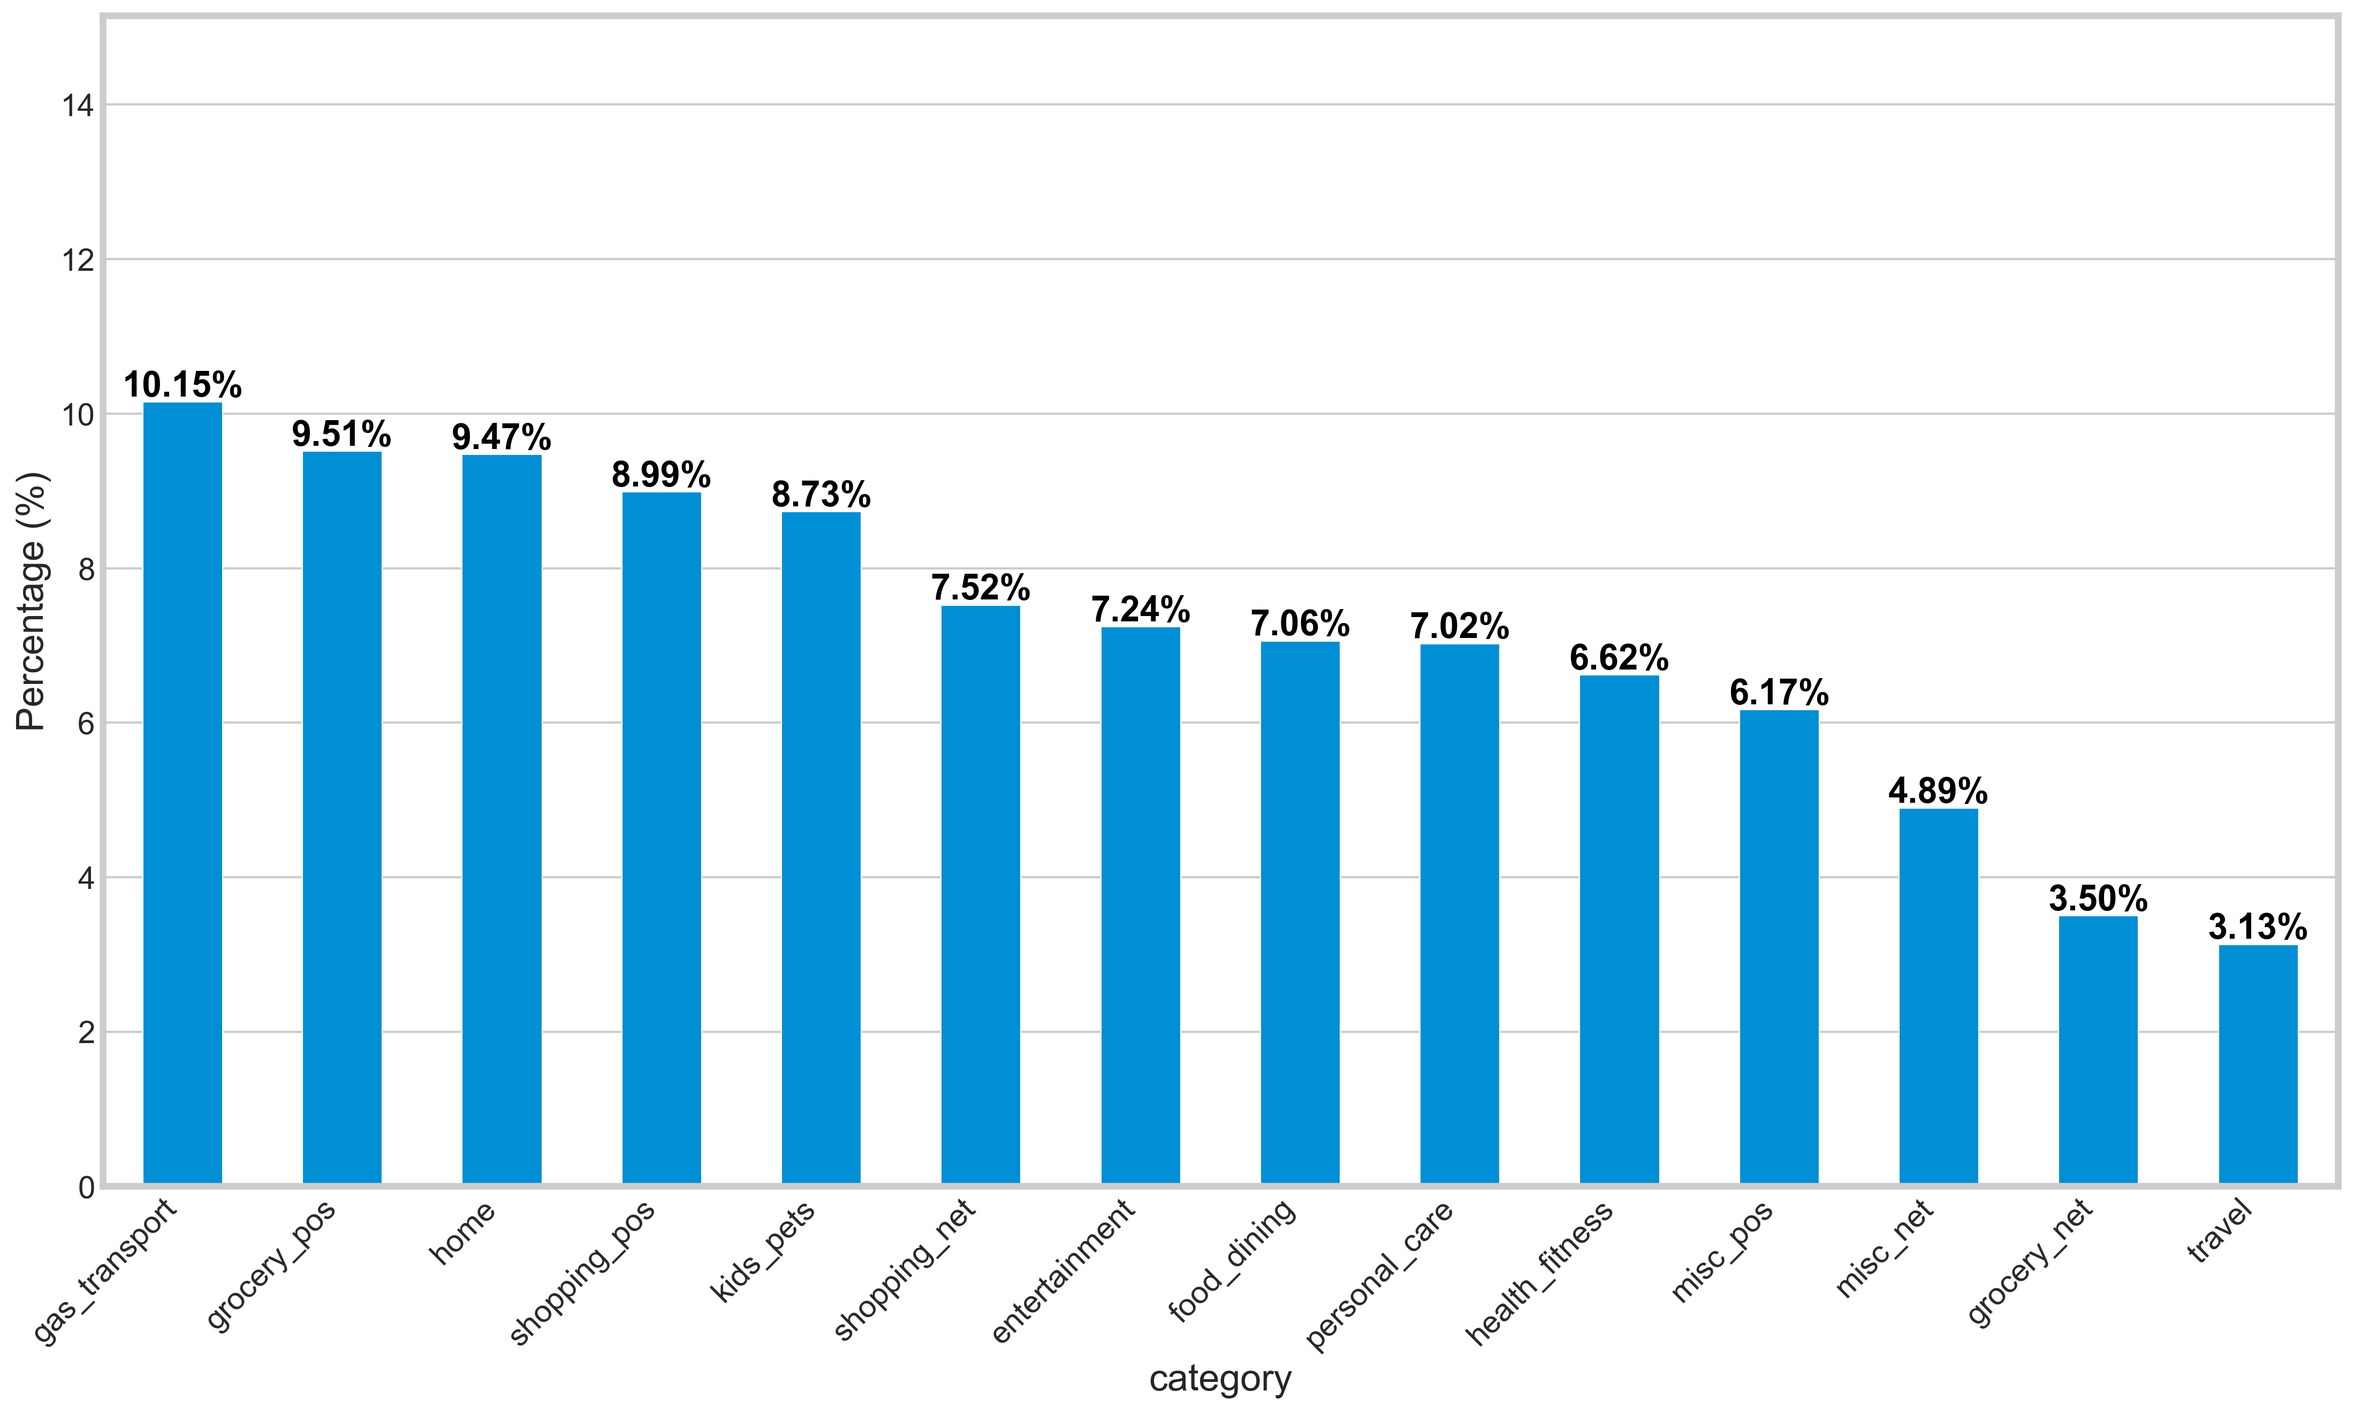
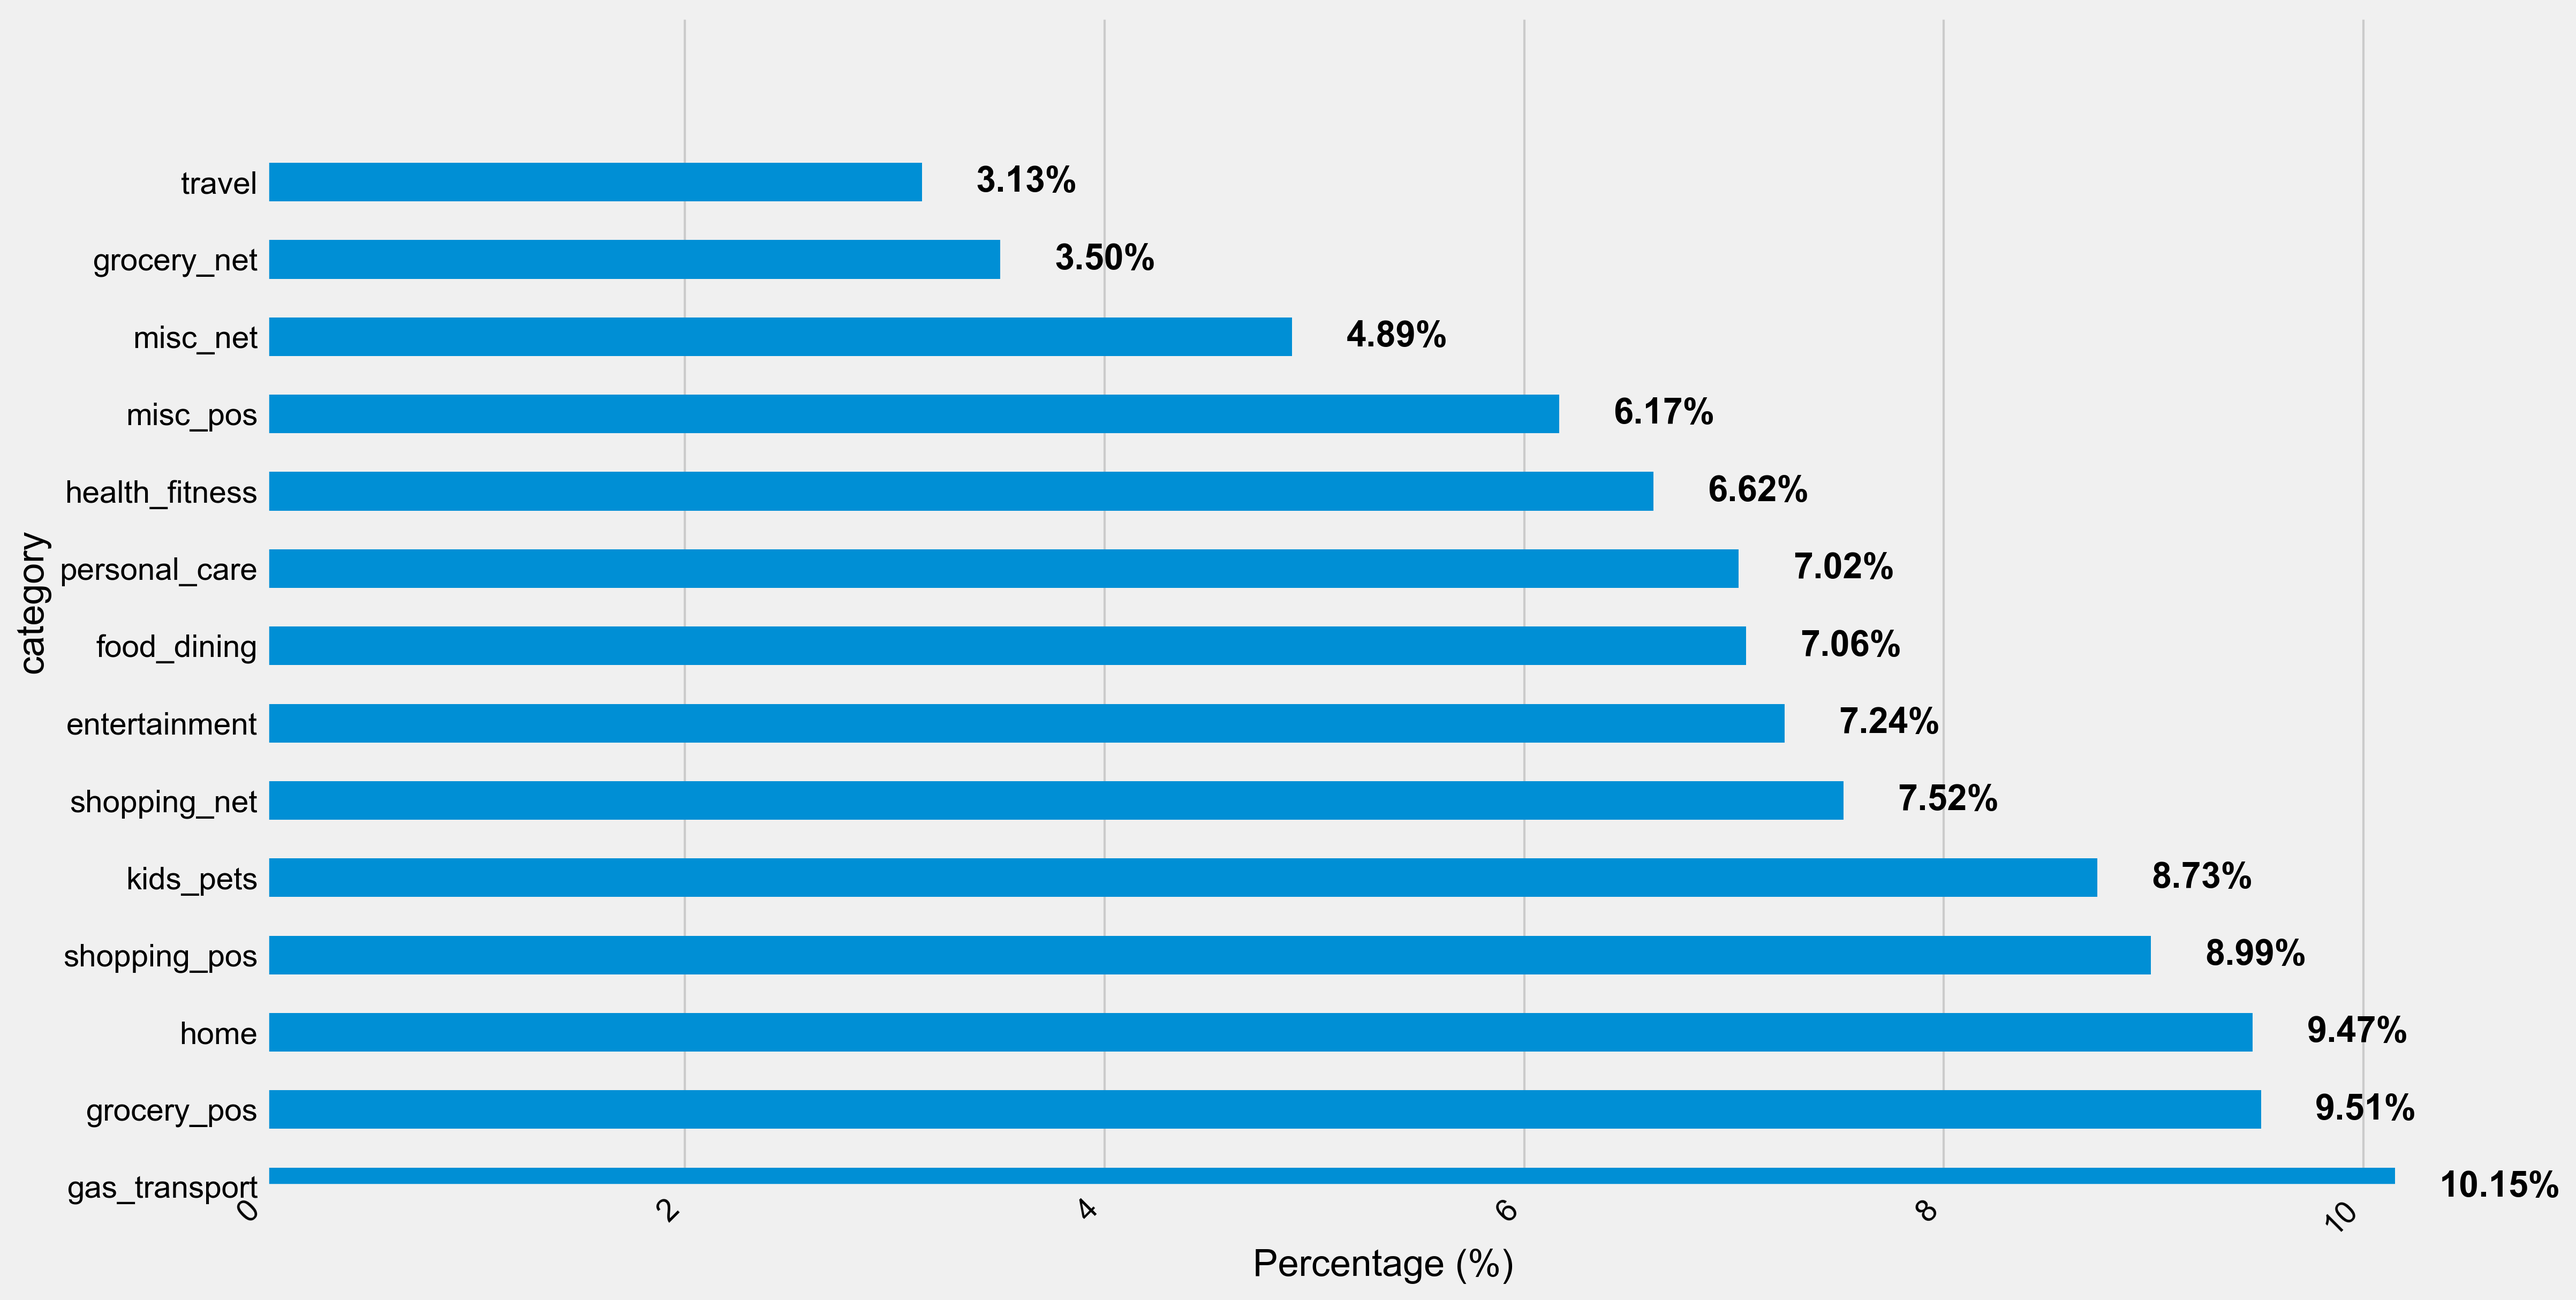
agregué tabla de curtosis

diff --git a/EDA.py b/EDA.py
@@ -149,31 +149,33 @@ def make_barplot(dataframe, cat_var,top):
     plt.figure(figsize=(16, 9))
 
     # Crear el diagrama de barras
-    my_fig = percentages.plot(kind='bar')
+    my_fig = percentages.plot(kind='barh')
 
     # Añadir porcentajes a las barras
     for i, valor in enumerate(percentages):
-        my_fig.text(i, valor + 0.2, f"{valor:.2f}%", fontsize=16, va='center', ha='center',
+        my_fig.text( valor + 0.5,i, f"{valor:.2f}%", fontsize=16, va='center', ha='center',
                     color='black', weight='bold')
 
     # Añadir títulos a los ejes
     #plt.title(f"Barplot" f" {cat_var}", fontsize=14)
-    plt.xlabel(cat_var)
-    plt.ylabel('Percentage (%)')
+    plt.ylabel(cat_var)
+    plt.xlabel('Percentage (%)')
 
     # Rotar las leyendas del eje x
     plt.xticks(rotation=45,ha="right")
     plt.ylim(0, percentages.max() + 5)
 
     # Controlar las lineas horizontales y verticales
-    my_fig.grid(axis='x', visible=False)
-    my_fig.grid(axis='y', visible=True)
+    my_fig.grid(axis='y', visible=False)
+    my_fig.grid(axis='x', visible=True)
     sns.set_style("whitegrid")
     # Guardar el gráfico usando el nombre de la variable analizada
     plt.savefig(f"barplot_{cat_var}.png", bbox_inches='tight', dpi=300)
     # Mostrar la figura
     plt.tight_layout()
     plt.show()
+
+
 
 def make_boxplot(dataframe, num_var, unit=''):
     # Tamaño de la figura
@@ -436,7 +438,7 @@ def graficar_temporalidad_fraude(df):
       # Calculamos la tasa agrupando por año
     tasa_anual = df_temp.groupby("año")["is_fraud"].mean() * 100
     sns.barplot(x=tasa_anual.index, y=tasa_anual.values, color="blue")
-    plt.title("Evolución Anual: ¿Está aumentando el fraude año a año?", fontsize=14)
+    #plt.title("Evolución Anual: ¿Está aumentando el fraude año a año?", fontsize=14)
     plt.ylabel("% de Fraude")
     plt.savefig("temp_1_anual.png", bbox_inches='tight')
     sns.set_style("whitegrid")
@@ -448,7 +450,7 @@ def graficar_temporalidad_fraude(df):
         # Calculamos la tasa agrupando por mes
     tasa_mensual = df_temp.groupby("mes")["is_fraud"].mean() * 100
     sns.barplot(x=tasa_mensual.index, y=tasa_mensual.values, color="green")
-    plt.title("Estacionalidad Mensual: ¿Hay meses más peligrosos?", fontsize=14)
+    #plt.title("Estacionalidad Mensual: ¿Hay meses más peligrosos?", fontsize=14)
     plt.xticks(range(1, 13), ['Ene', 'Feb', 'Mar', 'Abr', 'May', 'Jun', 'Jul', 'Ago', 'Sep', 'Oct', 'Nov', 'Dic'])
     plt.ylabel("% de Fraude")
     plt.grid(alpha=0.3)
@@ -464,7 +466,7 @@ def graficar_temporalidad_fraude(df):
     tasa_hora_año["is_fraud"] *= 100
     colores_personalizados = {2019: "blue", 2020: "red"}
     sns.lineplot(data=tasa_hora_año, x="hora", y="is_fraud", hue="año", marker="o",palette=colores_personalizados)
-    plt.title("Reloj del Criminal: Comparativa por Años", fontsize=14)
+    #plt.title("Reloj del Criminal: Comparativa por Años", fontsize=14)
     plt.xlabel("Hora del Día")
     plt.ylabel("% de Fraude")
     plt.xticks(range(0, 24))

diff --git a/main.py b/main.py
@@ -115,7 +115,7 @@ print("Análisis Univariado")
   #  make_boxplot(data,num_var)
 
 #for cat_var in cat_columns:
- #   make_barplot(data,cat_var,top=15) #univariado
+#make_barplot(data,"category",top=20) #univariado
 
 #ANÁLISIS MULTIVARIADO
 
@@ -270,6 +270,46 @@ pd.set_option("display.max_columns", None)
 
 print(tabla_skew.to_string(index=False))
 
+print("\n" + "="*60)
+print("Análisis de Curtosis: Original vs Logaritmo (log1p)")
+
+# Seleccionar solo variables numéricas
+num_cols = data.select_dtypes(include="number").columns
+
+resultados_kurtosis = []
+
+for col in num_cols:
+    serie = data[col].dropna()
+
+    # Calcular Kurtosis original
+    kurt_original = serie.kurtosis()
+
+    # Calcular Kurtosis con logaritmo
+    if (serie >= 0).all():
+        kurt_log = np.log1p(serie).kurtosis()
+    else:
+        kurt_log = np.nan
+
+    resultados_kurtosis.append([col, kurt_original, kurt_log])
+
+# Crear DataFrame para la tabla de resultados
+tabla_kurtosis = pd.DataFrame(
+    resultados_kurtosis,
+    columns=["variable", "kurtosis_original", "kurtosis_log"]
+)
+
+# Ordenar por mayor curtosis original para identificar colas pesadas
+tabla_kurtosis = tabla_kurtosis.sort_values(by="kurtosis_original", ascending=False)
+
+# Configuración para mostrar toda la tabla
+pd.set_option("display.max_rows", None)
+pd.set_option("display.max_columns", None)
+
+print(tabla_kurtosis.to_string(index=False))
+
+#-----------------------------------------------------------
+#NUEVAS VARIABLES
+#-----------------------------------------------------------
 print("\n" + "="*60)
 print("Logaritmo de amt")
 try:
